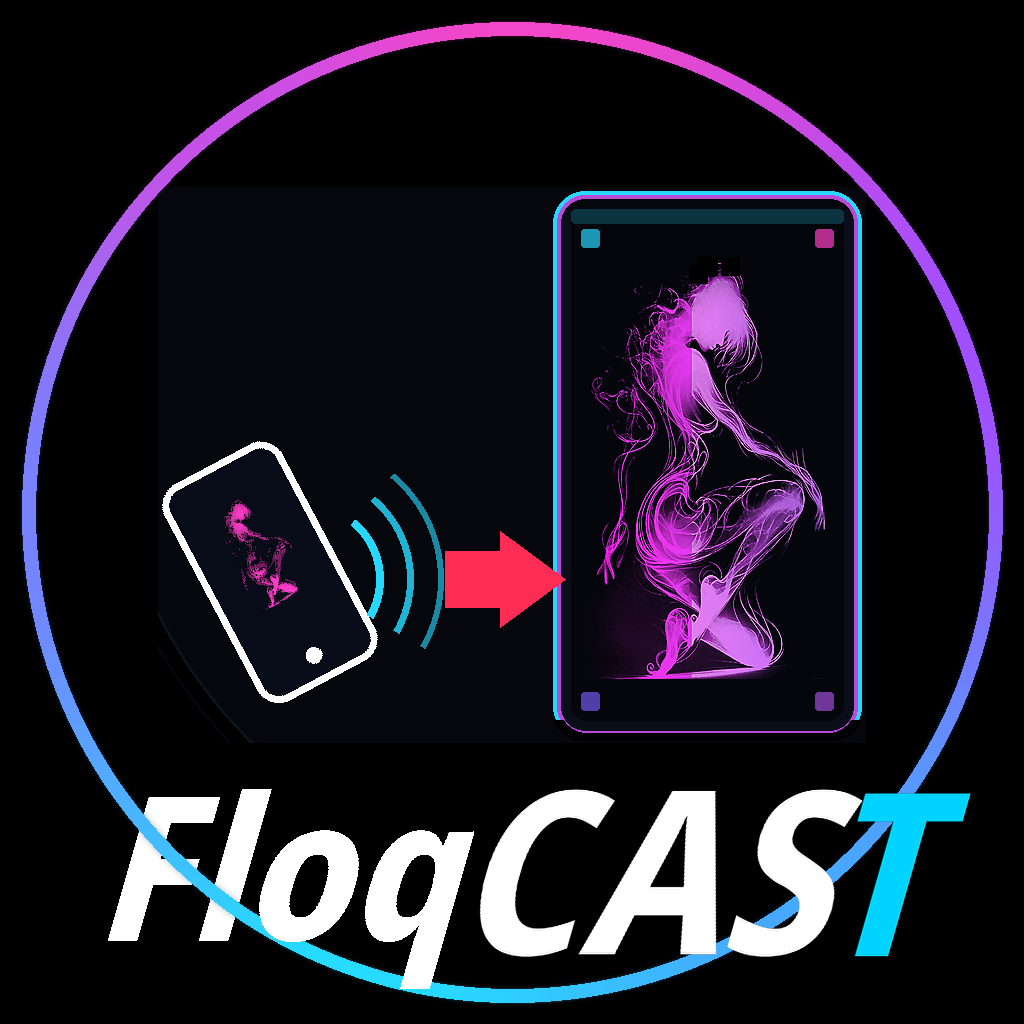
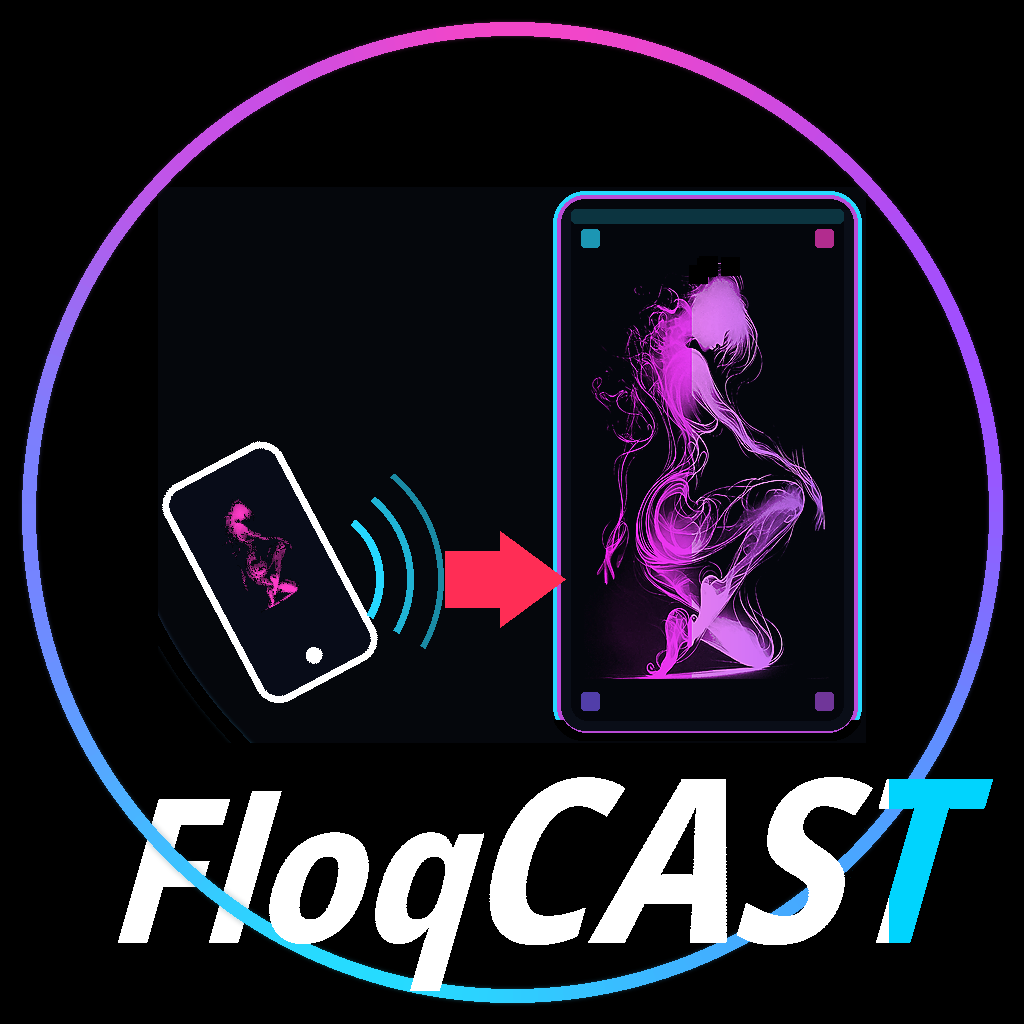
fix: FloqCAST Fl under-split; CAST +15%; phones restored
Phone/LED graphic matches ef50cfe (upper y<700 identical). CAST is
+15% point size vs Floq with Fl under the ring and oq+CAST over.
Review ?v=19.

Changed region(s): [[0.0938, 0.75, 0.625, 0.9688], [0.625, 0.75, 0.9688, 0.9375], [0.5312, 0.75, 0.625, 0.8125]]

diff --git a/scripts/build-chrome-icons.py b/scripts/build-chrome-icons.py
@@ -400,86 +400,95 @@ def floqcast_wm():
         size_f = int(
             max(50, min(280, round(size_f * FC_H / max(1, finish(u, by).size[1]))))
         )
-    size_c = int(round(size_f * 1.15))  # CAST +15% — point size only, no second height chase
+    size_c = int(round(size_f * 1.15))
 
-    floq = glyph("Floq", size_f, WHITE)
-    cas = glyph("CAS", size_c, WHITE)
-    Tt = glyph("T", size_c, TIFFANY)
-    ov = max(2, int(Tt.size[0] * 0.08))
-    cast_w = cas.size[0] + Tt.size[0] - ov
-    cast_h = max(cas.size[1], Tt.size[1])
-    cast = Image.new("RGBA", (cast_w, cast_h), (0, 0, 0, 0))
-    cast.alpha_composite(cas, (0, cast_h - cas.size[1]))
-    cast.alpha_composite(Tt, (cas.size[0] - ov, cast_h - Tt.size[1]))
-
-    # Fl / oq split on shared Floq canvas
-    font = ImageFont.truetype(FONT, int(size_f))
-    floq_u, by = render_upright("Floq", size_f, WHITE)
+    # --- Floq: shared-canvas Fl under / oq over (same method as accent_wm) ---
+    font_f = ImageFont.truetype(FONT, int(size_f))
+    floq_u, by_f = render_upright("Floq", size_f, WHITE)
     pad = 64
     bb = ImageDraw.Draw(Image.new("RGB", (1, 1))).textbbox(
-        (0, 0), "Floq", font=font, anchor="ls"
+        (0, 0), "Floq", font=font_f, anchor="ls"
     )
-    origin = (pad - bb[0], pad + (bb[3] - bb[1]))
+    origin_f = (pad - bb[0], pad + (bb[3] - bb[1]))
 
-    def layer(text):
+    def layer_f(text):
         im = Image.new("RGBA", floq_u.size, (0, 0, 0, 0))
-        ImageDraw.Draw(im).text(origin, text, font=font, fill=WHITE, anchor="ls")
-        return finish(im, by, crop=False)
+        ImageDraw.Draw(im).text(origin_f, text, font=font_f, fill=WHITE, anchor="ls")
+        return finish(im, by_f, crop=False)
 
-    full_f = finish(floq_u, by, crop=False)
-    fl_f = layer("Fl")
+    full_f = finish(floq_u, by_f, crop=False)
+    fl_f = layer_f("Fl")
     x0, y0b, x1, y1 = ink_bbox(full_f, 12)
     box = (x0, y0b, x1 + 1, y1 + 1)
     fa = np.array(full_f.crop(box))
     fla = np.array(fl_f.crop(box))
     ink = fa[:, :, 3] > 20
     flmask = (
-        np.array(Image.fromarray(fla[:, :, 3]).filter(ImageFilter.MaxFilter(3))) > 25
+        np.array(Image.fromarray(fla[:, :, 3]).filter(ImageFilter.MaxFilter(5))) > 20
     ) & ink
     floq_under = np.zeros_like(fa)
     floq_over = np.zeros_like(fa)
     floq_under[flmask] = (255, 255, 255, 255)
     floq_over[ink & ~flmask] = (255, 255, 255, 255)
-    # Map Fl/oq masks onto floq glyph box
-    floq_a = np.array(floq)
-    fu = Image.new("RGBA", floq.size, (0, 0, 0, 0))
-    fo = Image.new("RGBA", floq.size, (0, 0, 0, 0))
     FU = Image.fromarray(ink_only(floq_under), "RGBA")
     FO = Image.fromarray(ink_only(floq_over), "RGBA")
-    fu.paste(FU, (0, floq.size[1] - FU.size[1]), FU)
-    fo.paste(FO, (0, floq.size[1] - FO.size[1]), FO)
-    f_ink = floq_a[:, :, 3] > 20
-    u_m = (np.array(fu)[:, :, 3] > 20) & f_ink
-    o_m = f_ink & ~u_m
-    fu2 = np.zeros_like(floq_a)
-    fo2 = np.zeros_like(floq_a)
-    fu2[u_m] = (255, 255, 255, 255)
-    fo2[o_m] = (255, 255, 255, 255)
+    floq_body = Image.fromarray(ink_only(fa), "RGBA")
+    print(f"  Floq split under={int(flmask.sum())} over={int((ink & ~flmask).sum())}")
 
+    # --- CAST at +15%: CAS white + T tiffany (no white under T) ---
+    font_c = ImageFont.truetype(FONT, int(size_c))
+    cast_u, by_c = render_upright("CAST", size_c, WHITE)
+    bb_c = ImageDraw.Draw(Image.new("RGB", (1, 1))).textbbox(
+        (0, 0), "CAST", font=font_c, anchor="ls"
+    )
+    origin_c = (pad - bb_c[0], pad + (bb_c[3] - bb_c[1]))
+
+    def layer_c(text, fill=WHITE):
+        im = Image.new("RGBA", cast_u.size, (0, 0, 0, 0))
+        ImageDraw.Draw(im).text(origin_c, text, font=font_c, fill=fill, anchor="ls")
+        return finish(im, by_c, crop=False)
+
+    full_c = finish(cast_u, by_c, crop=False)
+    pre_c = layer_c("CAS")
+    cx0, cy0, cx1, cy1 = ink_bbox(full_c, 12)
+    cbox = (cx0, cy0, cx1 + 1, cy1 + 1)
+    ca = np.array(full_c.crop(cbox))
+    pa = np.array(pre_c.crop(cbox))
+    cink = ca[:, :, 3] > 20
+    pre_a = np.array(Image.fromarray(pa[:, :, 3]).filter(ImageFilter.MaxFilter(3)))
+    tmask = cink & (pre_a < 10)
+    xs = np.where(tmask)[1]
+    if len(xs):
+        tmask[:, : int(np.percentile(xs, 8))] = False
+    tmask = (
+        np.array(
+            Image.fromarray((tmask.astype(np.uint8) * 255)).filter(ImageFilter.MaxFilter(3))
+        )
+        > 127
+    ) & cink
+    cast_over = np.zeros_like(ca)
+    cast_over[cink] = (255, 255, 255, 255)
+    cast_over[tmask, 0] = TIFFANY[0]
+    cast_over[tmask, 1] = TIFFANY[1]
+    cast_over[tmask, 2] = TIFFANY[2]
+    cast_over[tmask, 3] = 255
+    CAST = Image.fromarray(ink_only(cast_over), "RGBA")
+
+    # Baseline-align: Floq ink top→baseline ≈ "Flo" height; CAST sits on that baseline
+    flo_cap_h = glyph("Flo", size_f, WHITE).size[1]
     gap = max(2, int(size_f * 0.03))
-    # Baseline-align CAST to Floq (Floq ink bottom is the q descender — not the baseline)
-    flo_cap = glyph("Flo", size_f, WHITE)
-    floq_baseline = flo_cap.size[1]  # from top of Floq ink box to baseline
-    # Canvas tall enough for Floq descender + taller CAST caps
-    H = max(floq.size[1], floq_baseline + (cast.size[1] - flo_cap.size[1]) + cast.size[1])
-    H = max(floq.size[1], floq_baseline + 8, cast.size[1] + (floq.size[1] - floq_baseline))
-    W = floq.size[0] + gap + cast.size[0]
+    W = floq_body.size[0] + gap + CAST.size[0]
+    # top padding if CAST caps taller than Floq caps
+    cast_above = max(0, CAST.size[1] - flo_cap_h)
+    H = cast_above + floq_body.size[1]
     under = Image.new("RGBA", (W, H), (0, 0, 0, 0))
     over = Image.new("RGBA", (W, H), (0, 0, 0, 0))
-    fy = 0
-    # CAST bottom at Floq baseline
-    cy = fy + floq_baseline - cast.size[1]
-    cy = max(0, cy)
-    # If CAST is taller than Floq caps, shift Floq down so CAST fits above baseline
-    if cy < 0:
-        fy = -cy
-        cy = 0
-        H = max(H, fy + floq.size[1])
-        under = Image.new("RGBA", (W, H), (0, 0, 0, 0))
-        over = Image.new("RGBA", (W, H), (0, 0, 0, 0))
-    under.alpha_composite(Image.fromarray(fu2, "RGBA"), (0, fy))
-    over.alpha_composite(Image.fromarray(fo2, "RGBA"), (0, fy))
-    over.alpha_composite(cast, (floq.size[0] + gap, cy))
+    fy = cast_above
+    # CAST bottom = Floq baseline = fy + flo_cap_h
+    cy = fy + flo_cap_h - CAST.size[1]
+    under.alpha_composite(FU, (0, fy + (floq_body.size[1] - FU.size[1])))
+    over.alpha_composite(FO, (0, fy + (floq_body.size[1] - FO.size[1])))
+    over.alpha_composite(CAST, (floq_body.size[0] + gap, cy))
 
     body = Image.alpha_composite(under, over)
     box = ink_bbox(body, 10)
@@ -491,8 +500,8 @@ def floqcast_wm():
     )
     B = Image.alpha_composite(U, O)
     print(
-        f"  TYPE FloqCAST Floq={size_f}/{floq.size} CAST={size_c}/{cast.size} "
-        f"(+15%) body={B.size}"
+        f"  TYPE FloqCAST Floq={size_f}/{floq_body.size} CAST={size_c}/{CAST.size} "
+        f"(+15%) body={B.size} under={int(np.array(U)[:,:,3].sum()>0)}"
     )
     return U, O, B
 
